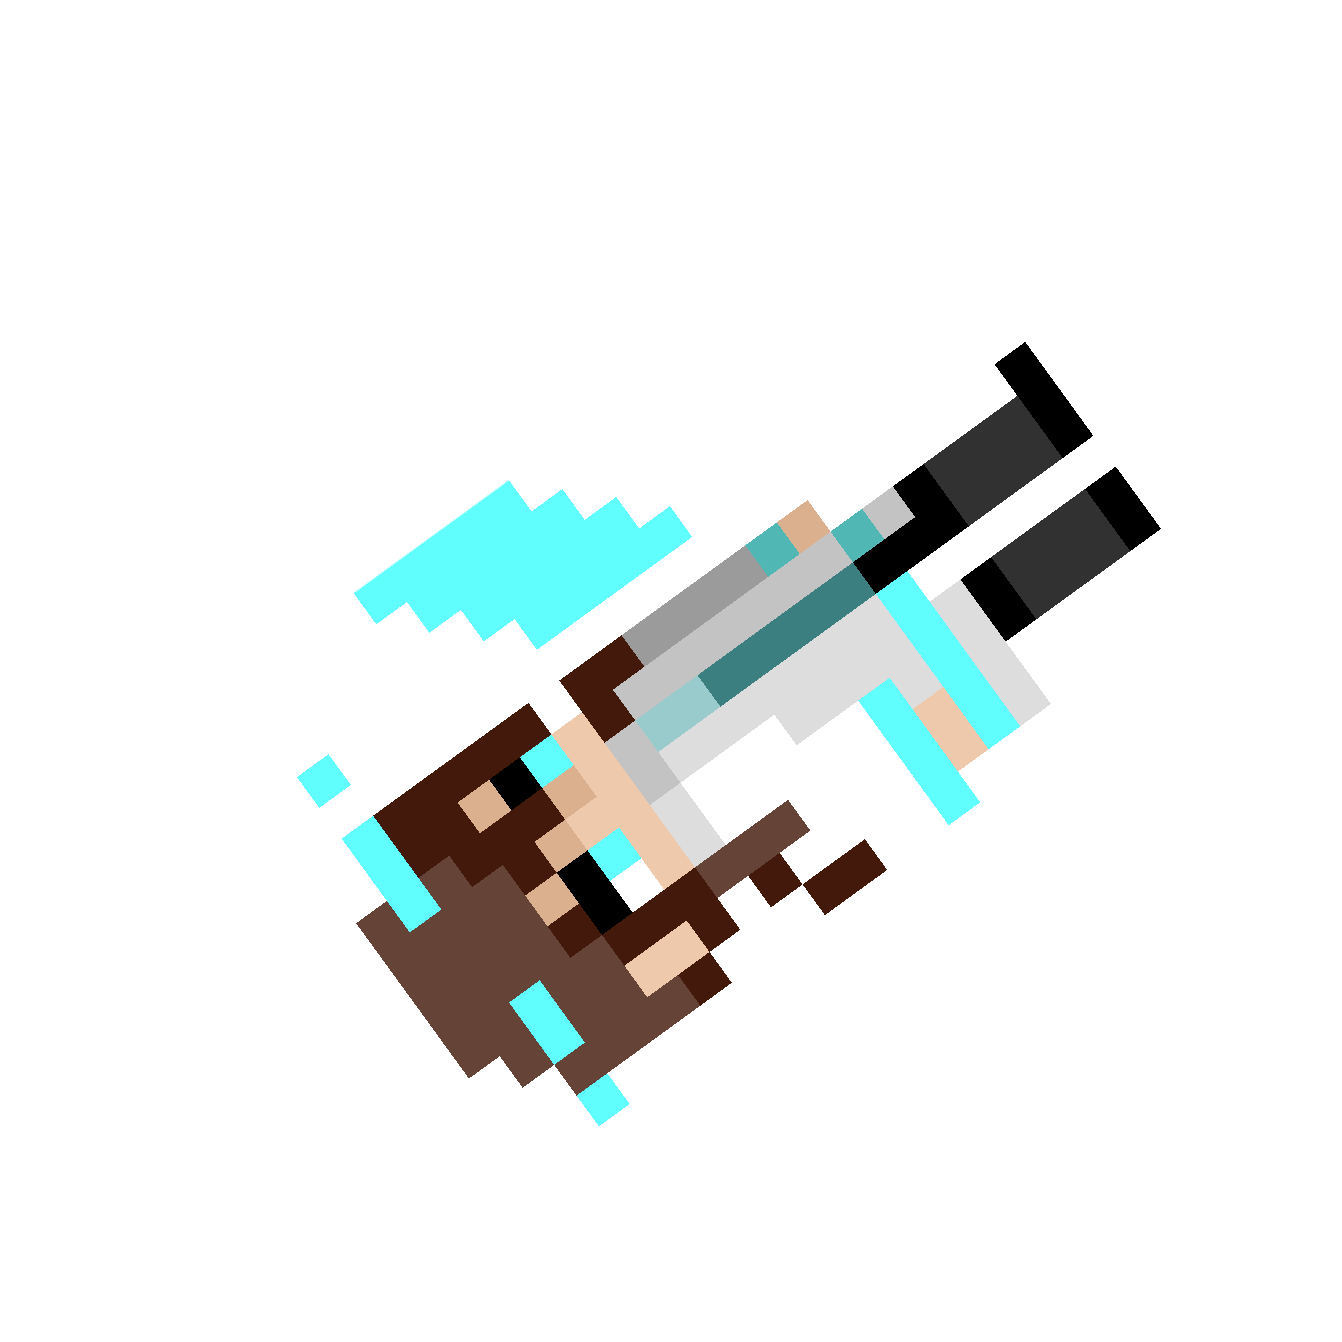
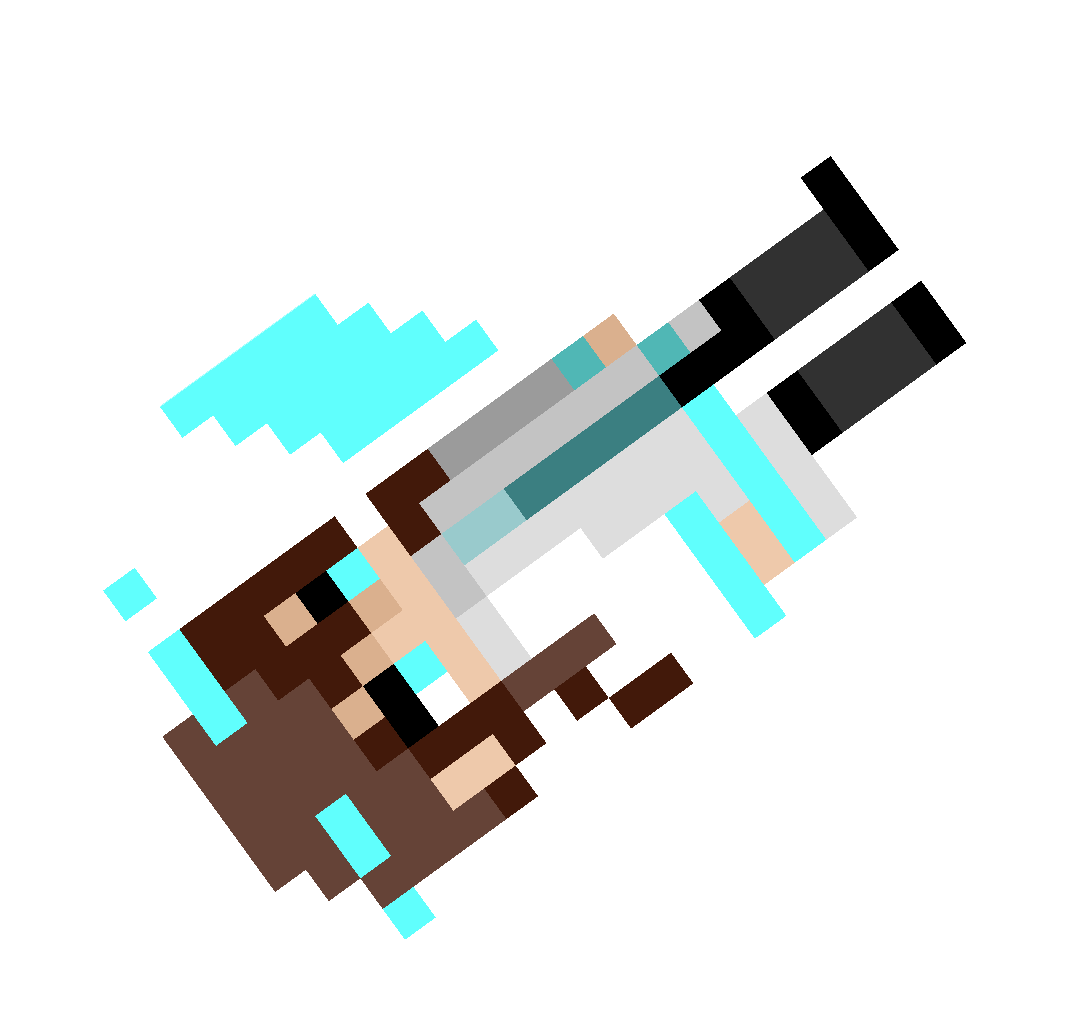
Adjust character fullbodies

Changed region(s): [[0.1226, 0.1524, 0.8886, 0.9145], [0.0919, 0.5487, 0.1532, 0.6096]]

diff --git a/frontend/src/components/statistics/GameStatsComponent.tsx b/frontend/src/components/statistics/GameStatsComponent.tsx
@@ -13,68 +13,80 @@ const GameStatsComponent: React.FC<{ statistics: Statistics }> = ({
 }) => {
   return (
     <>
-      <div className="columns-2">
-        <GameStat>
-          {achievements["gamesStarted"].name}: {statistics.gamesStarted}
-        </GameStat>
-        <GameStat>
-          {achievements["gamesCompleted"].name}: {statistics.gamesCompleted}
-        </GameStat>
-        <GameStat>
-          {achievements["chooseArtist"].name}: {statistics.chooseArtist}
-        </GameStat>
-        <GameStat>
-          {achievements["chooseDoctor"].name}: {statistics.chooseDoctor}
-        </GameStat>
-        <GameStat>
-          {achievements["chooseMechanic"].name}: {statistics.chooseMechanic}
-        </GameStat>
-        <GameStat>
-          {achievements["achievementShangrila"].name}:{" "}
-          {statistics.achievementShangrila}
-        </GameStat>
-        <GameStat>
-          {achievements["achievementParadox"].name}:{" "}
-          {statistics.achievementParadox}
-        </GameStat>
-        <GameStat>
-          {achievements["achievementNature"].name}:{" "}
-          {statistics.achievementNature}
-        </GameStat>
-        <GameStat>
-          {achievements["achievementWords"].name}: {statistics.achievementWords}
-        </GameStat>
-        <GameStat>
-          {achievements["achievementFolding"].name}:{" "}
-          {statistics.achievementFolding}
-        </GameStat>
-        <GameStat>
-          {achievements["achievementCrafting"].name}:{" "}
-          {statistics.achievementCrafting}
-        </GameStat>
-        <GameStat>
-          {achievements["achievementFeminine"].name}:{" "}
-          {statistics.achievementFeminine}
-        </GameStat>
-        <GameStat>
-          {achievements["achievementMyths"].name}: {statistics.achievementMyths}
-        </GameStat>
-        <GameStat>
-          {achievements["endingSheep"].name}: {statistics.endingSheep}
-        </GameStat>
-        <GameStat>
-          {achievements["endingForget"].name}: {statistics.endingForget}
-        </GameStat>
-        <GameStat>
-          {achievements["endingTravel"].name}: {statistics.endingTravel}
-        </GameStat>
-        <GameStat>
-          {achievements["endingMemory"].name}: {statistics.endingMemory}
-        </GameStat>
-        <GameStat>
-          {achievements["endingWake"].name}: {statistics.endingWake}
-        </GameStat>
+    <div className="flex justify flex-col w-full h-full bg-white">
+      <div className='flex justify flex-row w-full h-3/5'>
+        <div className='flex justify flex-col w-1/2 h-full'>
+          <div className='flex justify flex-col w-full h-2/5 bg-zinc-500'>
+            <GameStat>
+              {achievements["gamesStarted"].name}: {statistics.gamesStarted}
+            </GameStat>
+            <GameStat>
+              {achievements["gamesCompleted"].name}: {statistics.gamesCompleted}
+            </GameStat>
+          </div>
+            <div className='flex justify flex-col w-full h-3/5 bg-teal-500'>
+              <GameStat>
+                {achievements["chooseArtist"].name}: {statistics.chooseArtist}
+              </GameStat>
+              <GameStat>
+                {achievements["chooseDoctor"].name}: {statistics.chooseDoctor}
+              </GameStat>
+              <GameStat>
+                {achievements["chooseMechanic"].name}: {statistics.chooseMechanic}
+              </GameStat>
+          </div>
+        </div>
+        <div className='flex justify flex-col w-1/2 h-full bg-pink-500'>
+          <GameStat>
+            {achievements["endingSheep"].name}: {statistics.endingSheep}
+          </GameStat>
+          <GameStat>
+            {achievements["endingForget"].name}: {statistics.endingForget}
+          </GameStat>
+          <GameStat>
+            {achievements["endingTravel"].name}: {statistics.endingTravel}
+          </GameStat>
+          <GameStat>
+            {achievements["endingMemory"].name}: {statistics.endingMemory}
+          </GameStat>
+          <GameStat>
+            {achievements["endingWake"].name}: {statistics.endingWake}
+          </GameStat>
+        </div>
       </div>
+      <div className='flex justify flex-col w-full h-2/5 bg-red-500'>
+        <GameStat>
+            {achievements["achievementShangrila"].name}:{" "}
+            {statistics.achievementShangrila}
+          </GameStat>
+          <GameStat>
+            {achievements["achievementParadox"].name}:{" "}
+            {statistics.achievementParadox}
+          </GameStat>
+          <GameStat>
+            {achievements["achievementNature"].name}:{" "}
+            {statistics.achievementNature}
+          </GameStat>
+          <GameStat>
+            {achievements["achievementWords"].name}: {statistics.achievementWords}
+          </GameStat>
+          <GameStat>
+            {achievements["achievementFolding"].name}:{" "}
+            {statistics.achievementFolding}
+          </GameStat>
+          <GameStat>
+            {achievements["achievementCrafting"].name}:{" "}
+            {statistics.achievementCrafting}
+          </GameStat>
+          <GameStat>
+            {achievements["achievementFeminine"].name}:{" "}
+            {statistics.achievementFeminine}
+          </GameStat>
+          <GameStat>
+            {achievements["achievementMyths"].name}: {statistics.achievementMyths}
+          </GameStat>
+      </div>
+    </div>
     </>
   );
 };

diff --git a/frontend/src/components/statistics/StatisticsComponent.tsx b/frontend/src/components/statistics/StatisticsComponent.tsx
@@ -10,6 +10,18 @@ import GameCompleteComponent from "./GameCompleteComponent";
 import CompleteNotificationComponent from "./CompleteNotificationComponent";
 import { EventBus } from "../../EventBus";
 
+const Overlay = styled.div`
+  position: fixed;
+  top: 20px;
+  left: 0;
+  width: 100%;
+  height: 100%;
+  display: flex;
+
+  -webkit-transition: all 0.2s;
+  transition: all 0.2s;
+`;
+
 const StatisticsHeader = styled(TextStyle)`
   font-size: 28px;
   text-align: center;
@@ -112,16 +124,25 @@ const StatisticsComponent: React.FC = () => {
 
   return (
     <>
-      <div className="flex justify w-full h-4/5 flex-col justify-items-center items-center">
-        <StatisticsHeader>Game Statistics</StatisticsHeader>
-        {statistics ? (
-          <GameStatsComponent statistics={statistics} />
-        ) : (
-          <p>No statistics available</p>
-        )}
-
-        <GameCompleteComponent completes={completes} />
+    <div className='fixed top-20 bottom-32 w-full justify-center items-center pr-5 pl-5'>
+      <div className='flex w-full h-full flex-col items-center'>
+        <div className='flex justify-items-center items-center'>
+          <StatisticsHeader>Game Statistics</StatisticsHeader>
+        </div>
+          <div className="flex justify w-full h-full flex-row justify-items-center items-center text-center">
+          <div className='w-1/3 h-full bg-gray-500'>
+            <GameCompleteComponent completes={completes} />
+          </div>
+          <div className='w-2/3 h-full'>
+          {statistics ? (
+              <GameStatsComponent statistics={statistics} />
+            ) : (
+              <p>No statistics available</p>
+            )}
+          </div>
+          </div>
       </div>
+    </div>
       <CompleteNotificationComponent />
     </>
   );

diff --git a/frontend/src/components/MirrorComponent.tsx b/frontend/src/components/MirrorComponent.tsx
@@ -80,11 +80,11 @@ const MirrorComponent: React.FC<MirrorProps> = ({selectCharacter}) => {
                         bbottom={200} rotate={63}
                         background={debug ? "purple" : colors.secondary}/>
                     <Triangle
-                        top={50} left={-155}
-                        bleft={120} bright={120}
+                        top={50} left={-180}
+                        bleft={130} bright={130}
                         bbottom={350} rotate={12}
                         background={debug ? "pink" : colors.primary}
-                        character='Mechanic' selectCharacter={viewCharacter}/>
+                        character='Artist' selectCharacter={viewCharacter}/>
                     <Triangle
                         top={190} left={50}
                         bleft={50} bright={20}
@@ -105,7 +105,7 @@ const MirrorComponent: React.FC<MirrorProps> = ({selectCharacter}) => {
                         bleft={100} bright={100}
                         bbottom={300} rotate={-150}
                         background={debug ? "fuchsia" : colors.primary}
-                        character='Artist' selectCharacter={viewCharacter}
+                        character='Mechanic' selectCharacter={viewCharacter}
                     />
             </Overlay>
           {character !== '' && <Blocker onClick={close}/>}

diff --git a/frontend/src/components/statistics/GameCompleteComponent.tsx b/frontend/src/components/statistics/GameCompleteComponent.tsx
@@ -13,10 +13,13 @@ const CompleteContainer = styled(motion.div)`
     rgba(0, 0, 0, 0) 90%,
     rgba(0, 0, 0, 0)
   );
+  width: 100%;
+  height: 100%;
 `;
 
 const ScrollingContainer = styled(motion.div)`
   will-change: transform;
+  height: 100%;
 `;
 
 const GameCompleteComponent: React.FC<{ completes: PlayerData[] }> = ({
@@ -30,7 +33,7 @@ const GameCompleteComponent: React.FC<{ completes: PlayerData[] }> = ({
 
   const scroll = {
     animate: {
-      x: shouldScroll ? ["100%", "-100%"] : "0%",
+      x: shouldScroll ? [`${numShowing*100}%`, `-${numShowing*100}%`] : "0%",
       transition: {
         ease: "linear",
         duration: scrollTime,
@@ -41,11 +44,11 @@ const GameCompleteComponent: React.FC<{ completes: PlayerData[] }> = ({
 
   return (
     <>
-      <CompleteContainer className="mt-6 w-full">
+      <CompleteContainer>
         {completes.length > 0 && (
           <>
             <ScrollingContainer
-              className="flex w-full gap-2 overflow-visible"
+              className="flex w-full overflow-visible"
               variants={scroll}
               animate="animate"
             >

diff --git a/frontend/src/components/statistics/CharacterDisplayComponent.tsx b/frontend/src/components/statistics/CharacterDisplayComponent.tsx
@@ -6,10 +6,12 @@ import { TextStyle } from "../styled/Text.tsx";
 import { PlayerData } from "./PlayerData.ts";
 
 const Background = styled(motion.div)`
-  width: 10vw;
-  min-width: 100px;
-  max-width: 150px;
-
+  width: 20vw;
+  min-width: 100%;
+  // width: 100%;
+  // height: 100%;
+  aspect-ratio: 1/1;
+  background: black;
   text-align: center;
 
   image-rendering: pixelated;
@@ -38,12 +40,12 @@ const Title = styled(TextStyle)`
 const CharacterDisplayComponent: React.FC<{ player: PlayerData }> = ({
   player,
 }) => {
-  const prefix: string = "../assets/ui/";
+  const prefix: string = "../assets/characters/";
   const getImage = (): string => {
     if (!player) return "";
     if (player.class in characters) {
       const char = characters[player.class];
-      if (char.thumbnail) return prefix + char.thumbnail;
+      if (char.fullBody) return prefix + char.fullBody;
     }
     return "";
   };

diff --git a/frontend/src/components/NotificationComponent.tsx b/frontend/src/components/NotificationComponent.tsx
@@ -40,6 +40,7 @@ const Message = styled(TextStyle)`
 const NotificationComponent: React.FC = () => {
     const [header, setHeader] = useState<string>('');
     const [message, setMessage] = useState<string>('');
+    const showAchievements: boolean = false;
 
     useEffect(() => {
         EventBus.on("get_item", (item: string) =>  {
@@ -67,6 +68,7 @@ const NotificationComponent: React.FC = () => {
         })
 
         EventBus.on('achievement', (achievement: string) => {
+          if (!showAchievements) return;
           if(achievement in achievements) {
             const entry: Achievement = achievements[achievement];
             if(entry.hidden) return;

diff --git a/frontend/src/setup/Achievements.ts b/frontend/src/setup/Achievements.ts
@@ -85,4 +85,14 @@ export const achievements: { [key: string]: Achievement } = {
         description: "It is awoken.",
         hidden: false,
     },
+    "pureShards": {
+        name: "Pure Shards Collected",
+        description: "",
+        hidden: false,
+    },
+    "corruptedShards": {
+        name: "Corrupted Shards Collected",
+        description: "",
+        hidden: false,
+    },
 };

diff --git a/frontend/src/components/MenuComponent.tsx b/frontend/src/components/MenuComponent.tsx
@@ -47,6 +47,10 @@ const StatisticsButton = styled(TextStyle)`
       background: #999999;
     }
   }
+
+  @media(max-width: 768px) {
+    display: none;
+  }
 `;
 
 const TextContainer = styled(motion.div)`

diff --git a/frontend/src/components/statistics/Statistics.ts b/frontend/src/components/statistics/Statistics.ts
@@ -18,4 +18,6 @@ export interface Statistics {
   endingTravel: number;
   endingMemory: number;
   endingWake: number;
+  pureShards: number;
+  corruptedShards: number;
 }

diff --git a/scripts/rotate.py b/scripts/rotate.py
@@ -13,6 +13,6 @@ def rotate_image(input_image_path, output_image_path, degrees):
     print(f"Image rotated by {degrees} degrees and saved to {output_image_path}")
 
 # Example usage
-rotate_image('frontend/src/assets/characters/artist_fullbody.png', 'frontend/src/assets/characters/artist_rotated.png', -150)
+rotate_image('frontend/src/assets/characters/artist_fullbody.png', 'frontend/src/assets/characters/artist_rotated.png', 12)
 rotate_image('frontend/src/assets/characters/doctor_fullbody.png', 'frontend/src/assets/characters/doctor_rotated.png', 126)
-rotate_image('frontend/src/assets/characters/mechanic_fullbody.png', 'frontend/src/assets/characters/mechanic_rotated.png', 12)
+rotate_image('frontend/src/assets/characters/mechanic_fullbody.png', 'frontend/src/assets/characters/mechanic_rotated.png', -150)
